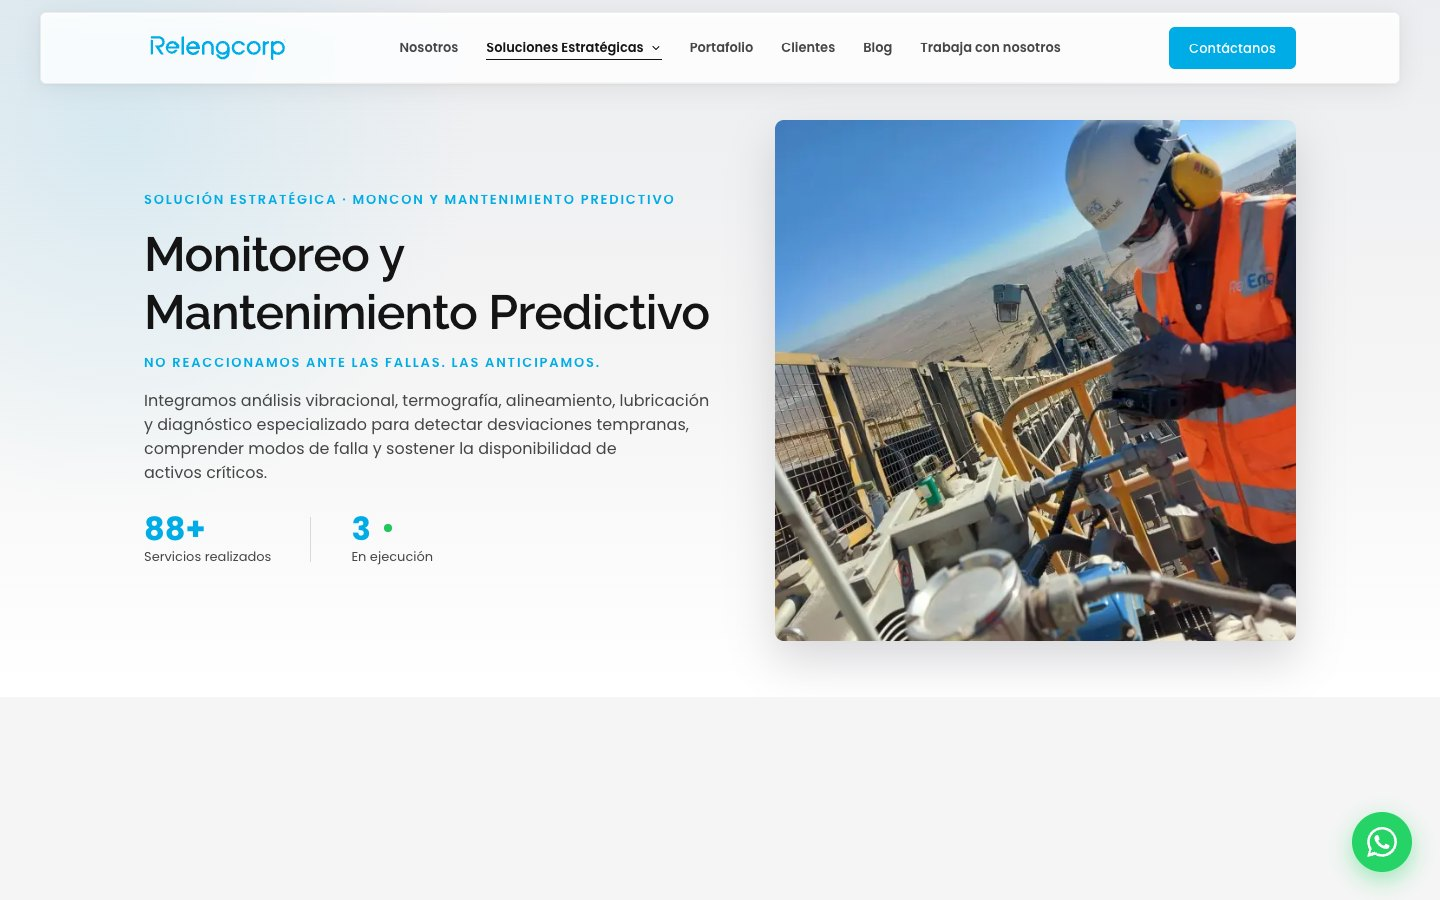
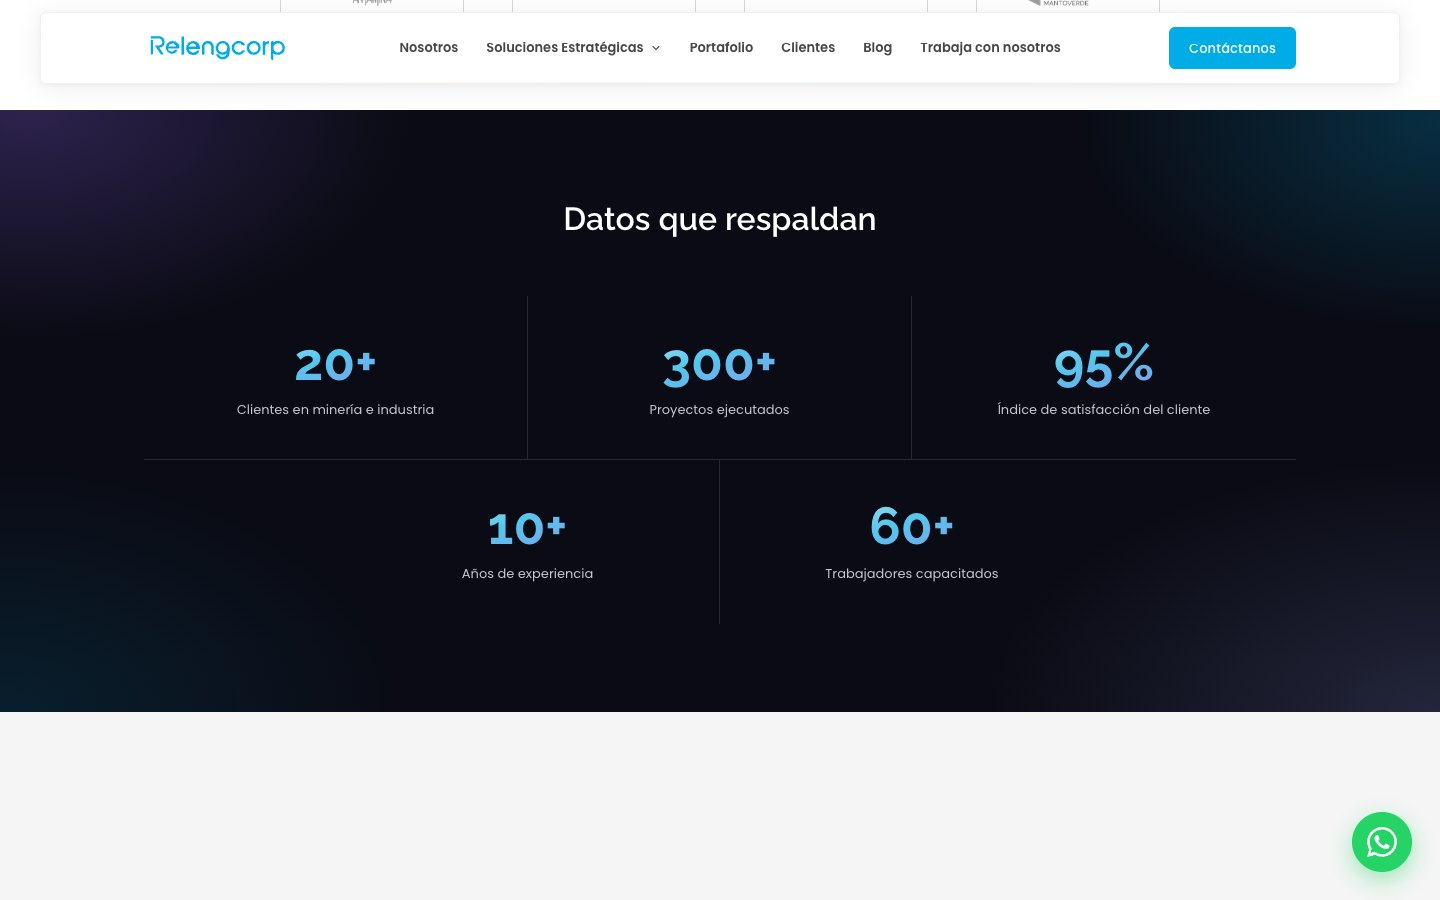
Relengcorp: seis capturas dentro del proyecto (hero primero) y sin efecto de hover en las imágenes

diff --git a/src/scripts/portfolio.js b/src/scripts/portfolio.js
@@ -10,7 +10,6 @@ import gsap from 'gsap';
 import { projects, getProject } from '../data/projects.js';
 import { makeArt, projectImageKinds } from './projectArt.js';
 import { track } from './track.js';
-import { attachBulge } from './bulge.js';
 
 const N = projects.length;
 let CARD_W = 3.6, CARD_H = 2.25;                  // en móvil se cambian a un formato vertical (ver initPortfolio)
@@ -426,7 +425,6 @@ export async function initPortfolio(root) {
   const ring = $('[data-pf-ring]', modal);
   const RING_LEN = 2 * Math.PI * 9;
   const imgCache = new Map();
-  const bulges = [];
   const baseTitle = document.title;
 
   function fillProject(p) {
@@ -455,11 +453,7 @@ export async function initPortfolio(root) {
       return v;
     };
     const imgs = (p.images && p.images.length) ? p.images.map(media) : imgCache.get(p.slug);
-    bulges.splice(0).forEach((off) => off());                      // se desmonta el efecto de las imágenes del proyecto anterior
-    imgs.forEach((el) => {
-      const fig = document.createElement('figure'); fig.className = 'pf-fig'; el.className = 'pf-img'; fig.append(el); imagesEl.append(fig);
-      if (el instanceof HTMLImageElement) bulges.push(attachBulge(fig, el));   // mismo efecto que las portadas: se abomban siguiendo al cursor
-    });
+    imgs.forEach((el) => { const fig = document.createElement('figure'); fig.className = 'pf-fig'; el.className = 'pf-img'; fig.append(el); imagesEl.append(fig); });
     scroller.scrollTop = 0; ring.style.strokeDashoffset = RING_LEN;
     if ('IntersectionObserver' in window) {
       const io = new IntersectionObserver((es) => es.forEach((en) => { if (en.isIntersecting) { en.target.classList.add('is-in'); io.unobserve(en.target); } }), { root: scroller, threshold: 0.15 });

diff --git a/src/data/projects.js b/src/data/projects.js
@@ -21,7 +21,8 @@ export const projects = [
     slug: 'relengcorp',
     cover: '/projects/relengcorp/cover.jpg',
     coverVideo: '/projects/relengcorp/hero.mp4',      // portada animada del panel 3D: un ciclo completo del hero (sin sonido, en bucle)
-    images: ['/projects/relengcorp/cover.jpg', '/projects/relengcorp/1.jpg', '/projects/relengcorp/2.jpg', '/projects/relengcorp/3.jpg'],   // capturas provisionales
+    // capturas: hero · soluciones · cifras · página de servicio · nosotros · portafolio
+    images: [1, 2, 3, 4, 5, 6].map((n) => `/projects/relengcorp/${n}.jpg`),
     name: 'Relengcorp',
     desc: 'Sitio corporativo para una empresa de ingeniería especializada en operaciones críticas: siete soluciones estratégicas, portafolio de proyectos, clientes y blog, con animaciones que acompañan el scroll.',
     category: 'Ingeniería industrial · Web corporativa',

diff --git a/src/styles/global.css b/src/styles/global.css
@@ -207,8 +207,6 @@ h1, h2, h3 { font-weight: 700 !important; letter-spacing: -0.02em !important; }
 .pf-fig { margin: 0; border-radius: 6px; overflow: hidden; box-shadow: 0 2px 20px rgba(0,0,0,.08); opacity: 0; transform: translateY(26px); transition: opacity .8s ease, transform .9s cubic-bezier(.16,1,.3,1); }
 .pf-fig.is-in { opacity: 1; transform: none; }
 .pf-img { display: block; width: 100%; height: auto; }
-.pf-fig { position: relative; }
-.pf-bulge { position: absolute; inset: 0; width: 100%; height: 100%; opacity: 0; pointer-events: none; }   /* lienzo del efecto de hover (scripts/bulge.js) */
 video.pf-img { aspect-ratio: 16 / 10; background: #0d111a; object-fit: cover; }      /* grabaciones de la web: reservan su alto antes de cargar */
 .pf-chip--link { text-decoration: none; transition: background .2s, color .2s; }
 .pf-chip--link:hover { background: #000; color: #fff; }
